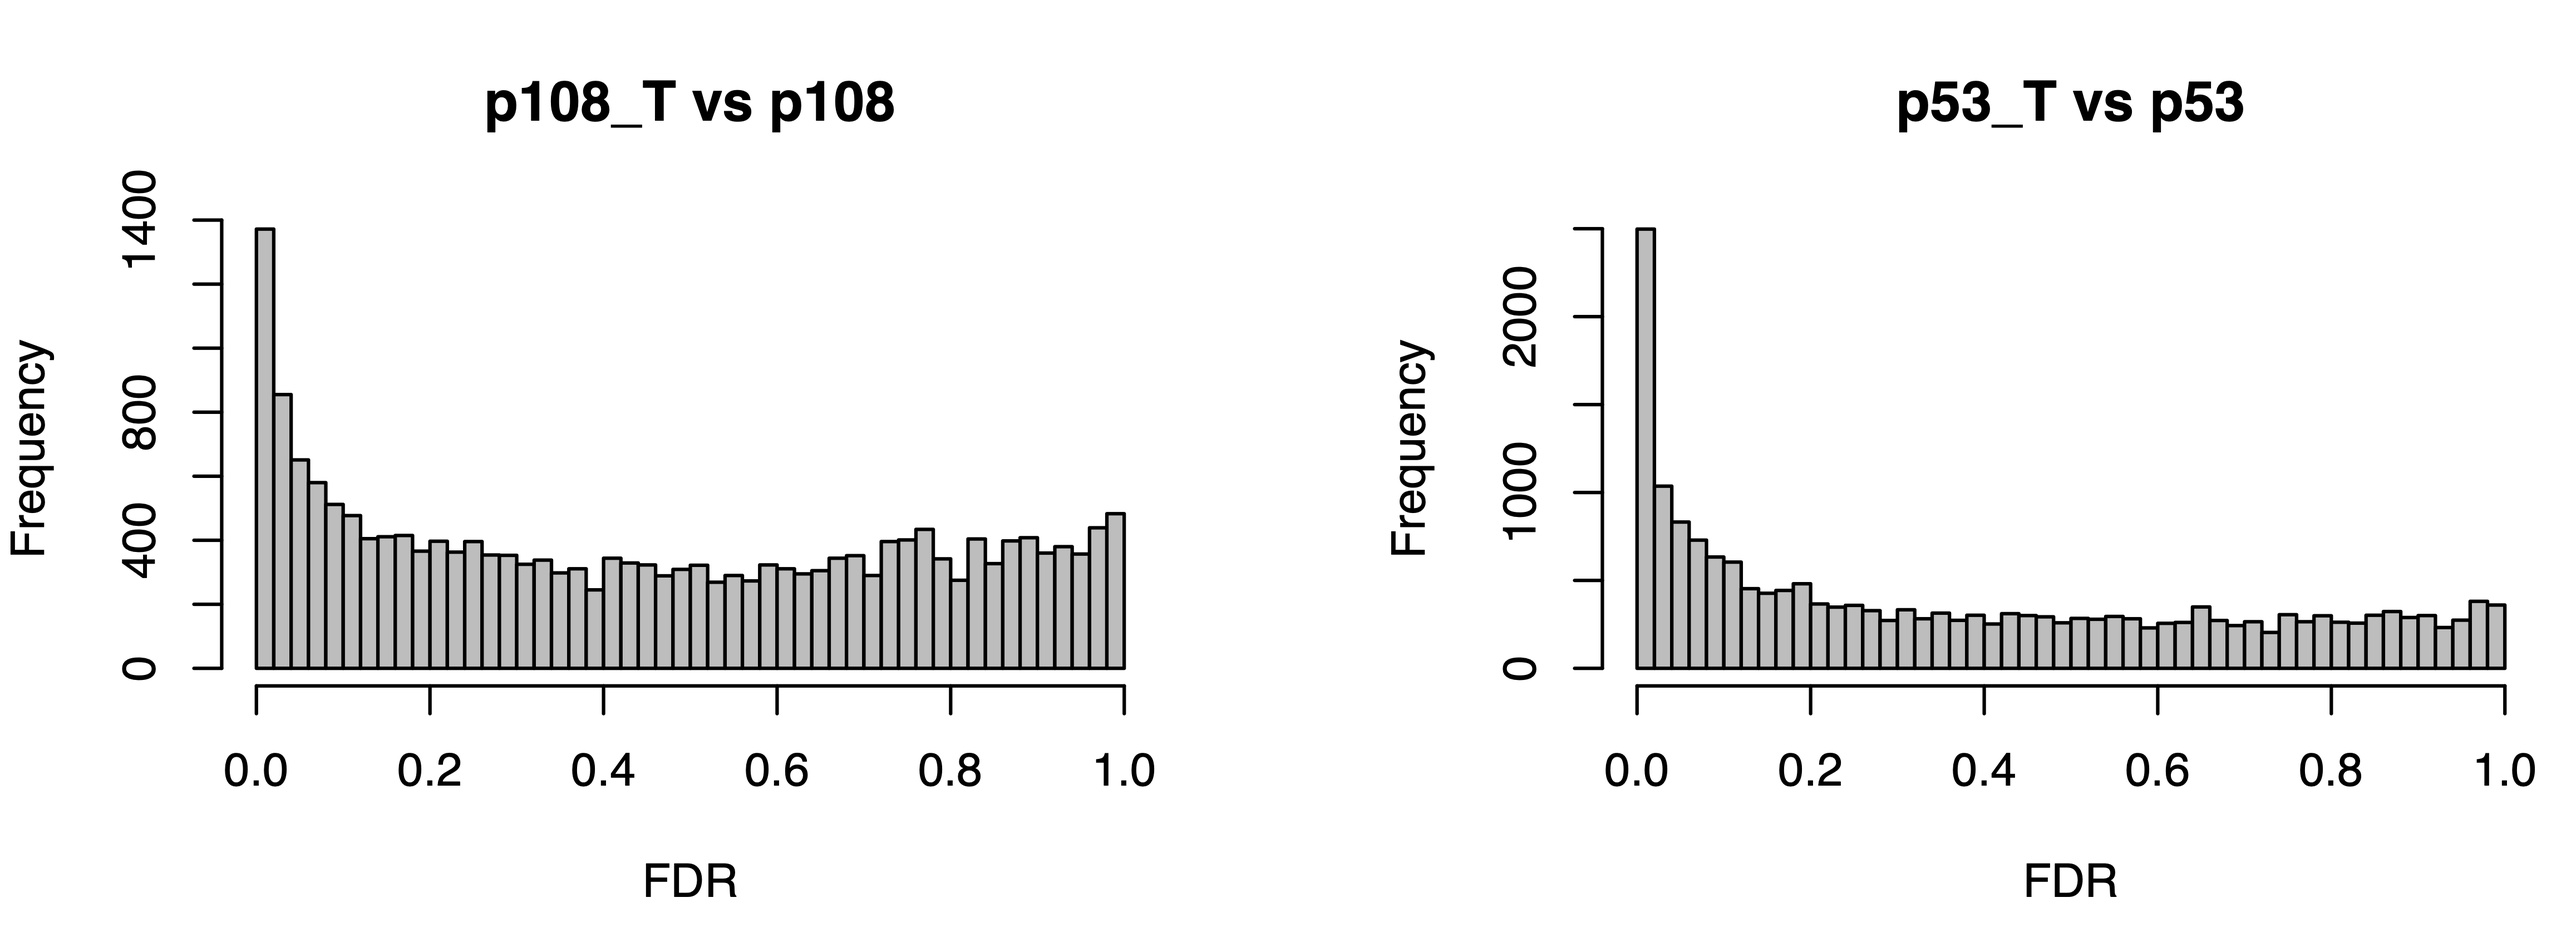
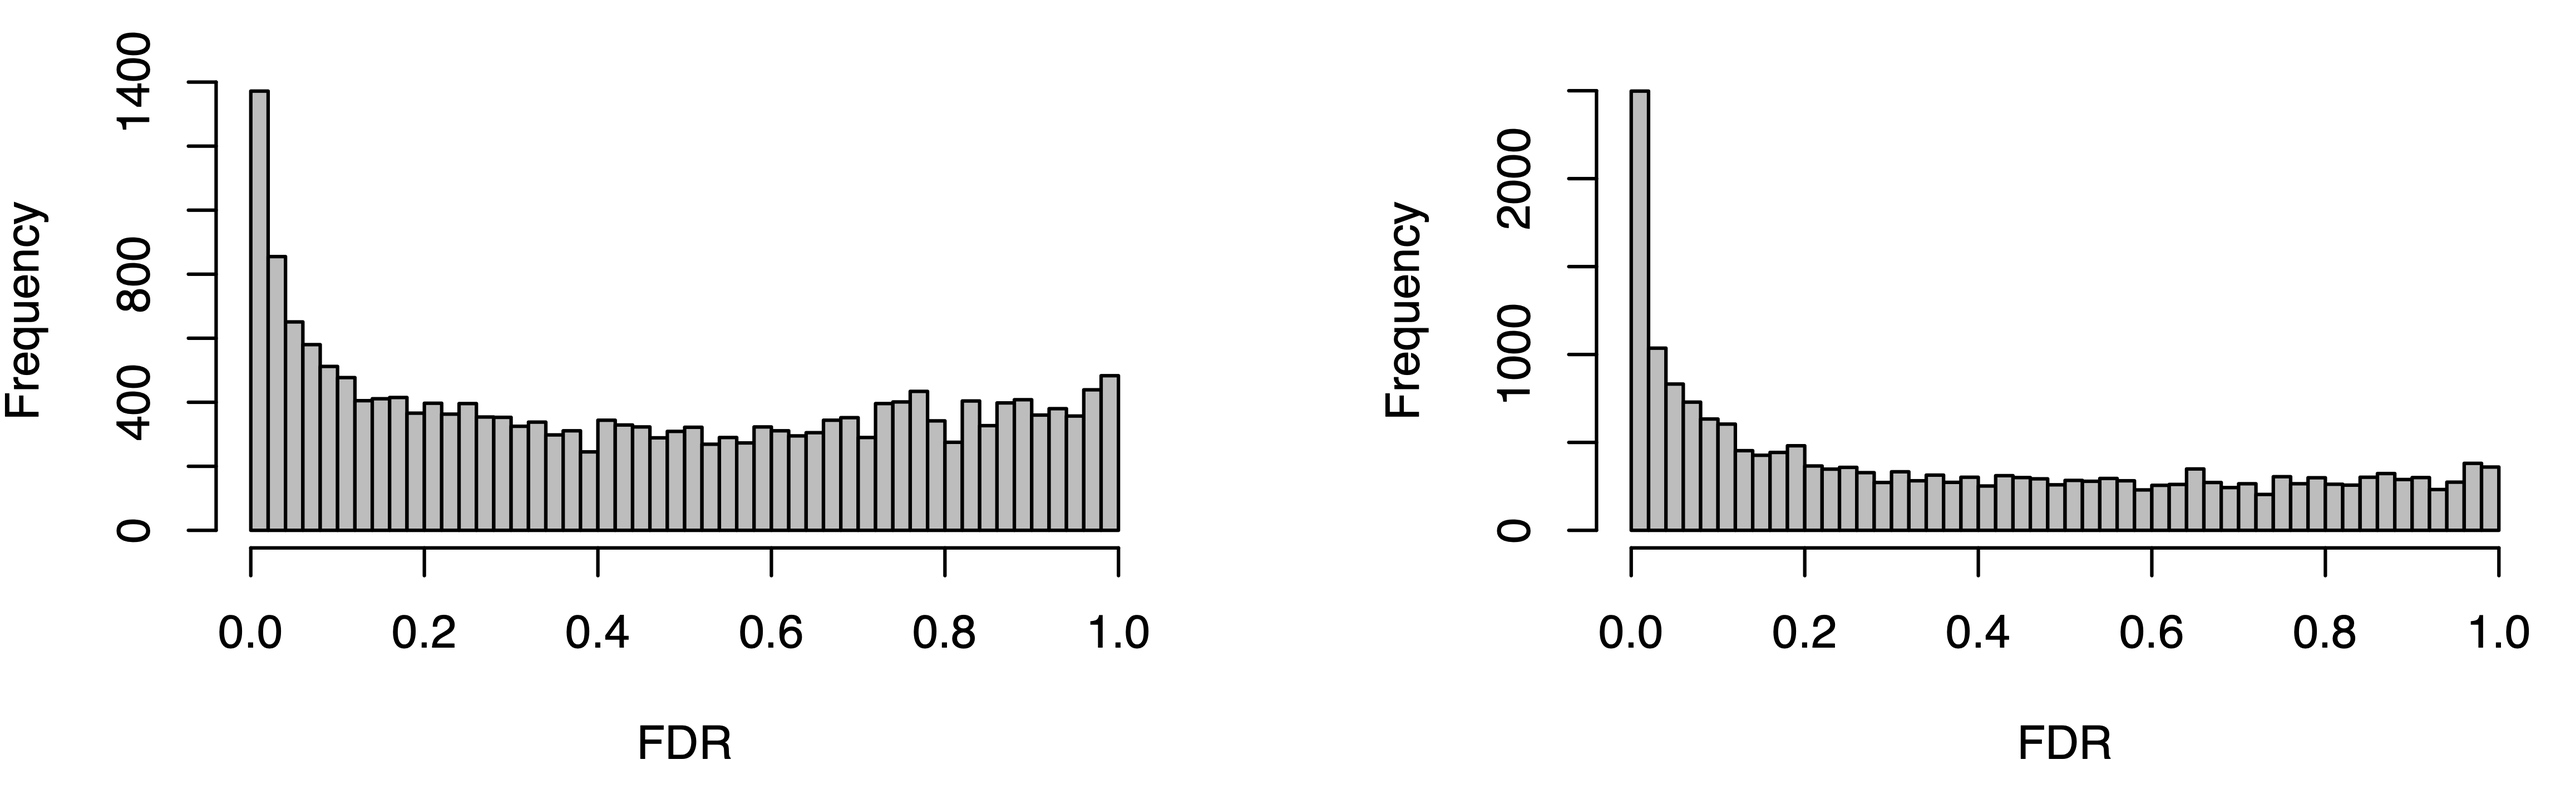
README updates

diff --git a/README.md b/README.md
@@ -402,14 +402,14 @@ plotMA(LFC,main='???',cex=0.5)
 
 #### Distribution of p-values and FDRs
 
-The distribution of p-values following a differential expression analysis can be an indication of whether the experiment worked. 
+The distribution of p-values following a differential expression analysis can be an indication of whether there is an enrichment of differentially expressed genes and whether the statistical test is correct, i.e. has the correct assumptions. 
 
 ```R
 #The distribution of p-values
-hist(ql.groups12$table$PValue,col='grey',breaks=50,main='p108_T vs p108',xlab='p-values')
+hist(LFC$pvalue,breaks=50,col='grey',main='???',xlab='p-value')
 
 #The false-discovery rate distribution
-hist(topTags(ql.groups12,n=length(genes))$table$FDR,col='grey',breaks=50,main='p108_T vs p108',xlab='FDR')
+hist(LFC$padj,breaks=50,col='grey',main='???',xlab='Adjusted p-value')
 ```
 
 The p-value distribution:
